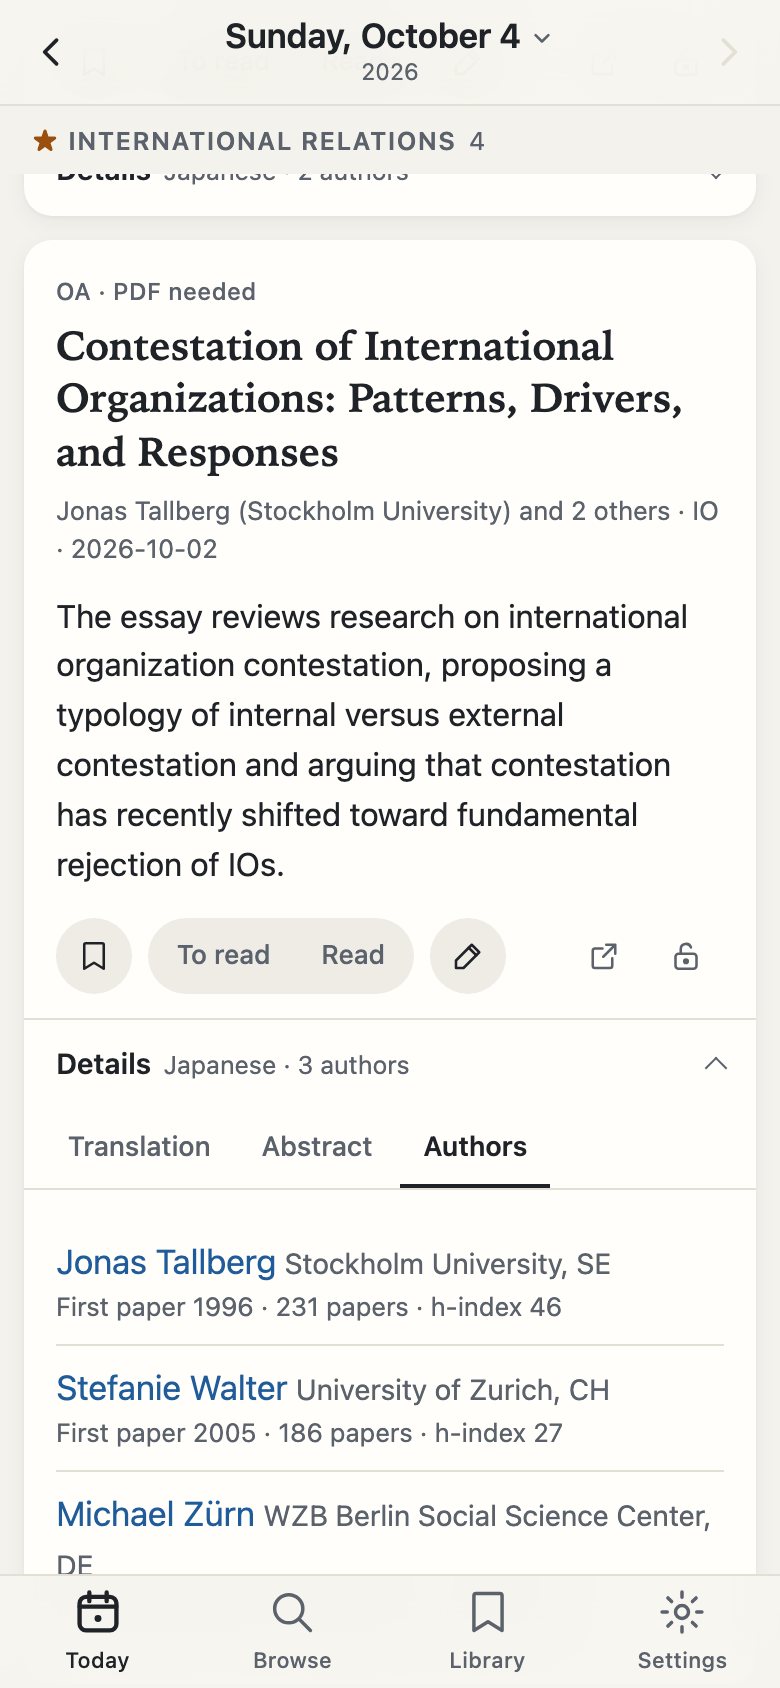
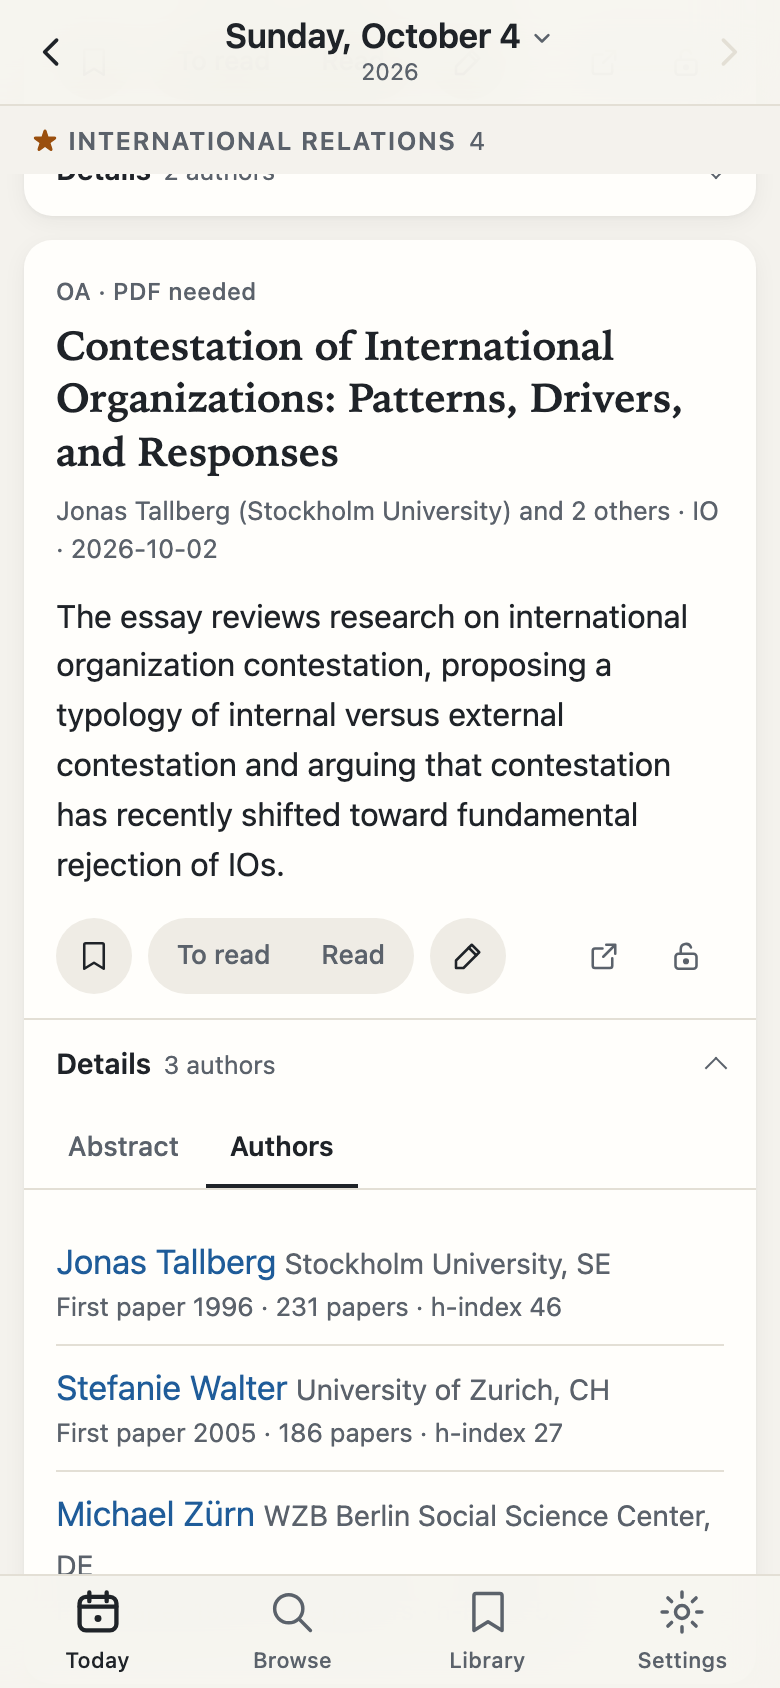
README: drop translation mentions, retake screenshots without a translation language, center images

diff --git a/README.md b/README.md
@@ -2,16 +2,19 @@
 
 A personal morning digest of new political science papers, readable on a phone or a desktop.
 
-<p>
-  <img src="docs/screenshots/today-phone.png" alt="Today on a phone: papers grouped by field, each with a one-line summary" width="260">
-  <img src="docs/screenshots/details-phone.png" alt="A paper's Details opened on the Authors tab (translation and abstract are the other tabs)" width="260">
+<p align="center">
+  <img src="docs/screenshots/today-phone.png" alt="Today on a phone: papers grouped by field, each with a one-line summary" width="280">
+  &nbsp;&nbsp;
+  <img src="docs/screenshots/details-phone.png" alt="A paper's Details opened on the Authors tab" width="280">
 </p>
-<img src="docs/screenshots/desktop-dark.png" alt="Wide screen in dark mode: sidebar with sections, calendar and the day's fields" width="800">
+<p align="center">
+  <img src="docs/screenshots/desktop-dark.png" alt="Wide screen in dark mode: sidebar with sections, calendar and the day's fields" width="860">
+</p>
 
 ## What it does
 
 - Collects each morning's new papers from a chosen set of journals.
-- Sorts them by field, adds a one-line English summary, and translates the abstract into the reader's language.
+- Sorts them by field and adds a one-line English summary of each paper.
 - Keeps every past day: a calendar to go back, and search across all papers by journal, field or words.
 - Lets you save papers, mark them to read or read, add notes, and ask for a full-text summary of open-access papers.
 - Sends a morning notification and shows the number of new papers on the home-screen icon.
@@ -20,7 +23,7 @@ A personal morning digest of new political science papers, readable on a phone o
 
 ```
 GitHub Actions (hourly) ──► journal RSS feeds + OpenAlex ──► Claude API (fields, one-liners,
-        │                                                     translations, full-text summaries)
+        │                                                     full-text summaries)
         ▼
     Firestore ◄──── this web app (static files on GitHub Pages, Firebase Auth)
         │
@@ -40,8 +43,8 @@ processing scripts and the data are kept private.
   notifications.
 - **Cost:** a few dollars a month for the Claude API for about fifteen journals; the
   Firebase and GitHub free tiers cover the rest.
-- **Watch out for:** abstracts and their translations belong to the publishers, so keep them
-  behind sign-in rather than on a public page; keep API keys and service-account files out of
+- **Watch out for:** abstracts belong to the publishers, so keep them behind sign-in rather
+  than on a public page; keep API keys and service-account files out of
   synced folders (iCloud, Dropbox) and out of the repository; many publishers do not allow full
   texts to be downloaded automatically, so some summaries need a PDF you download yourself; and
   GitHub's scheduled runs can start late, sometimes by an hour or more.
